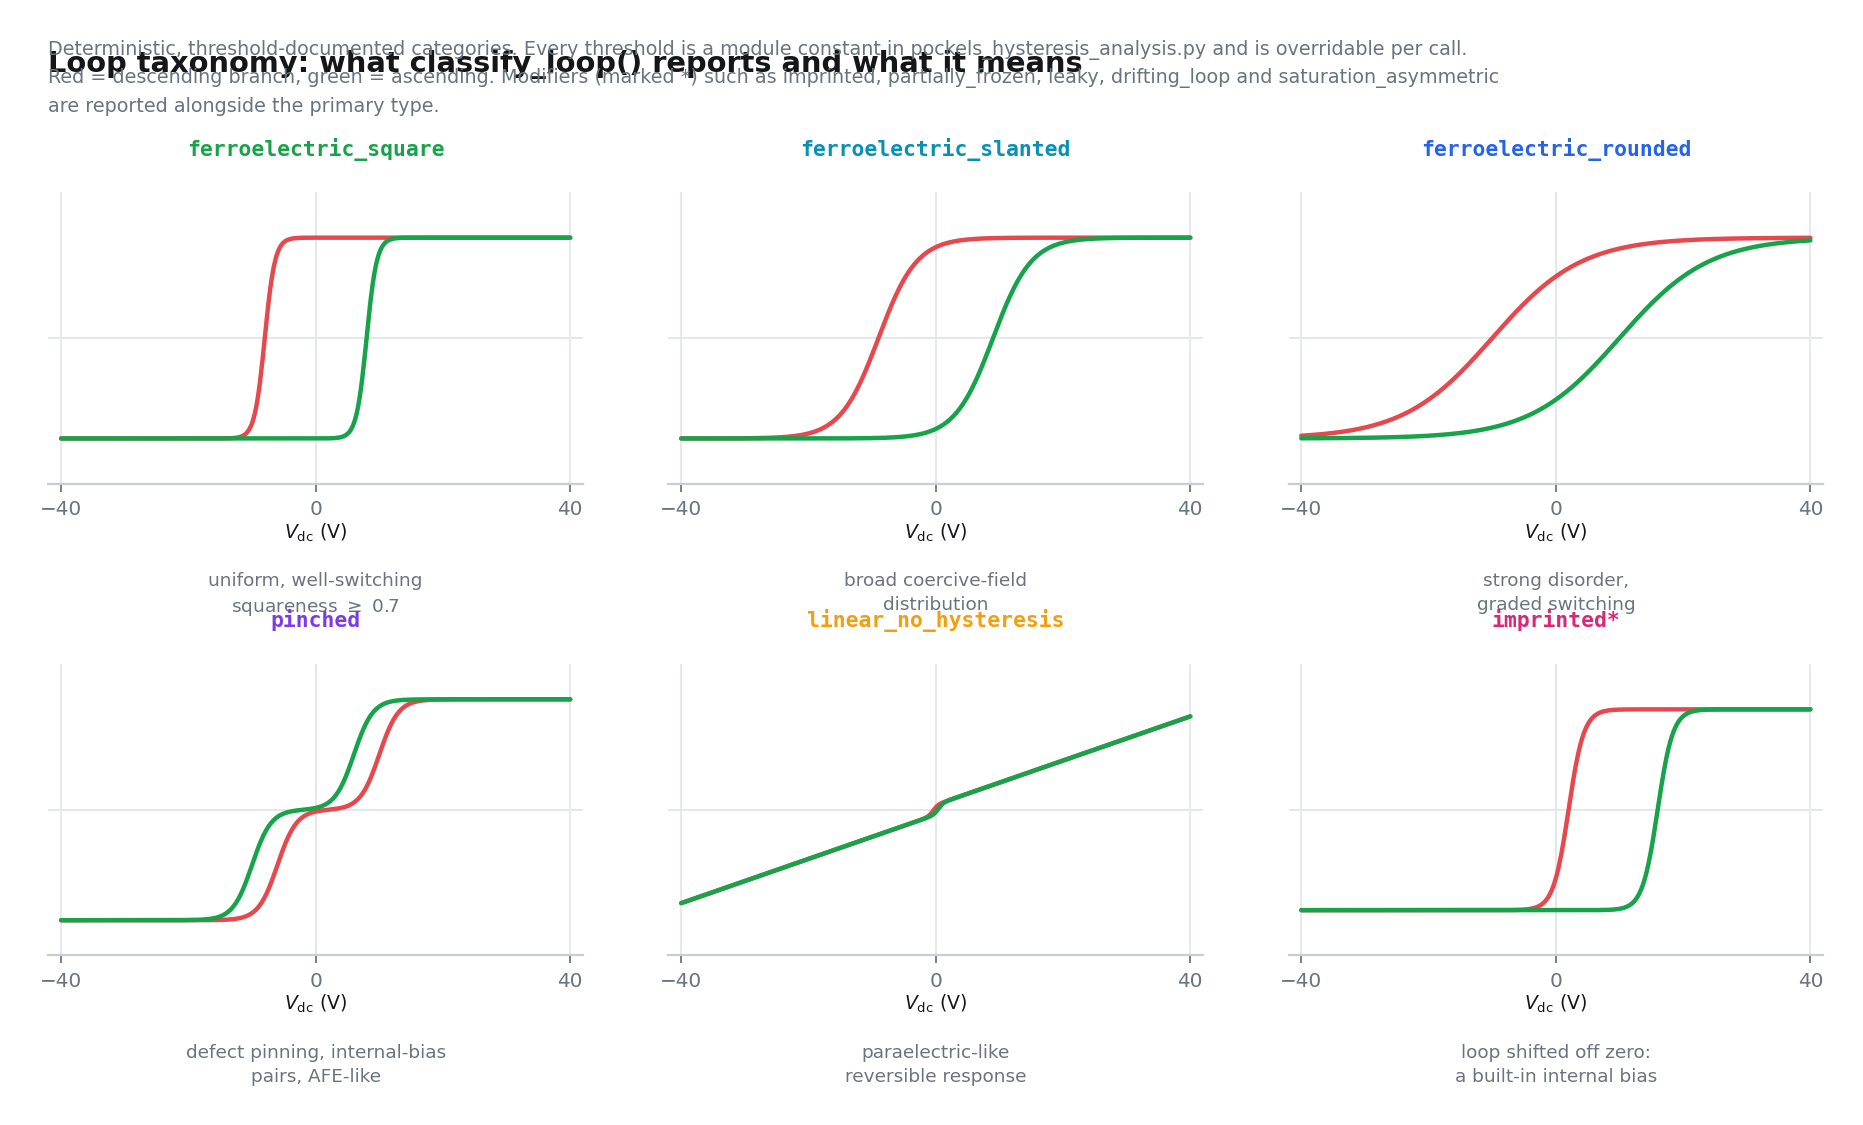
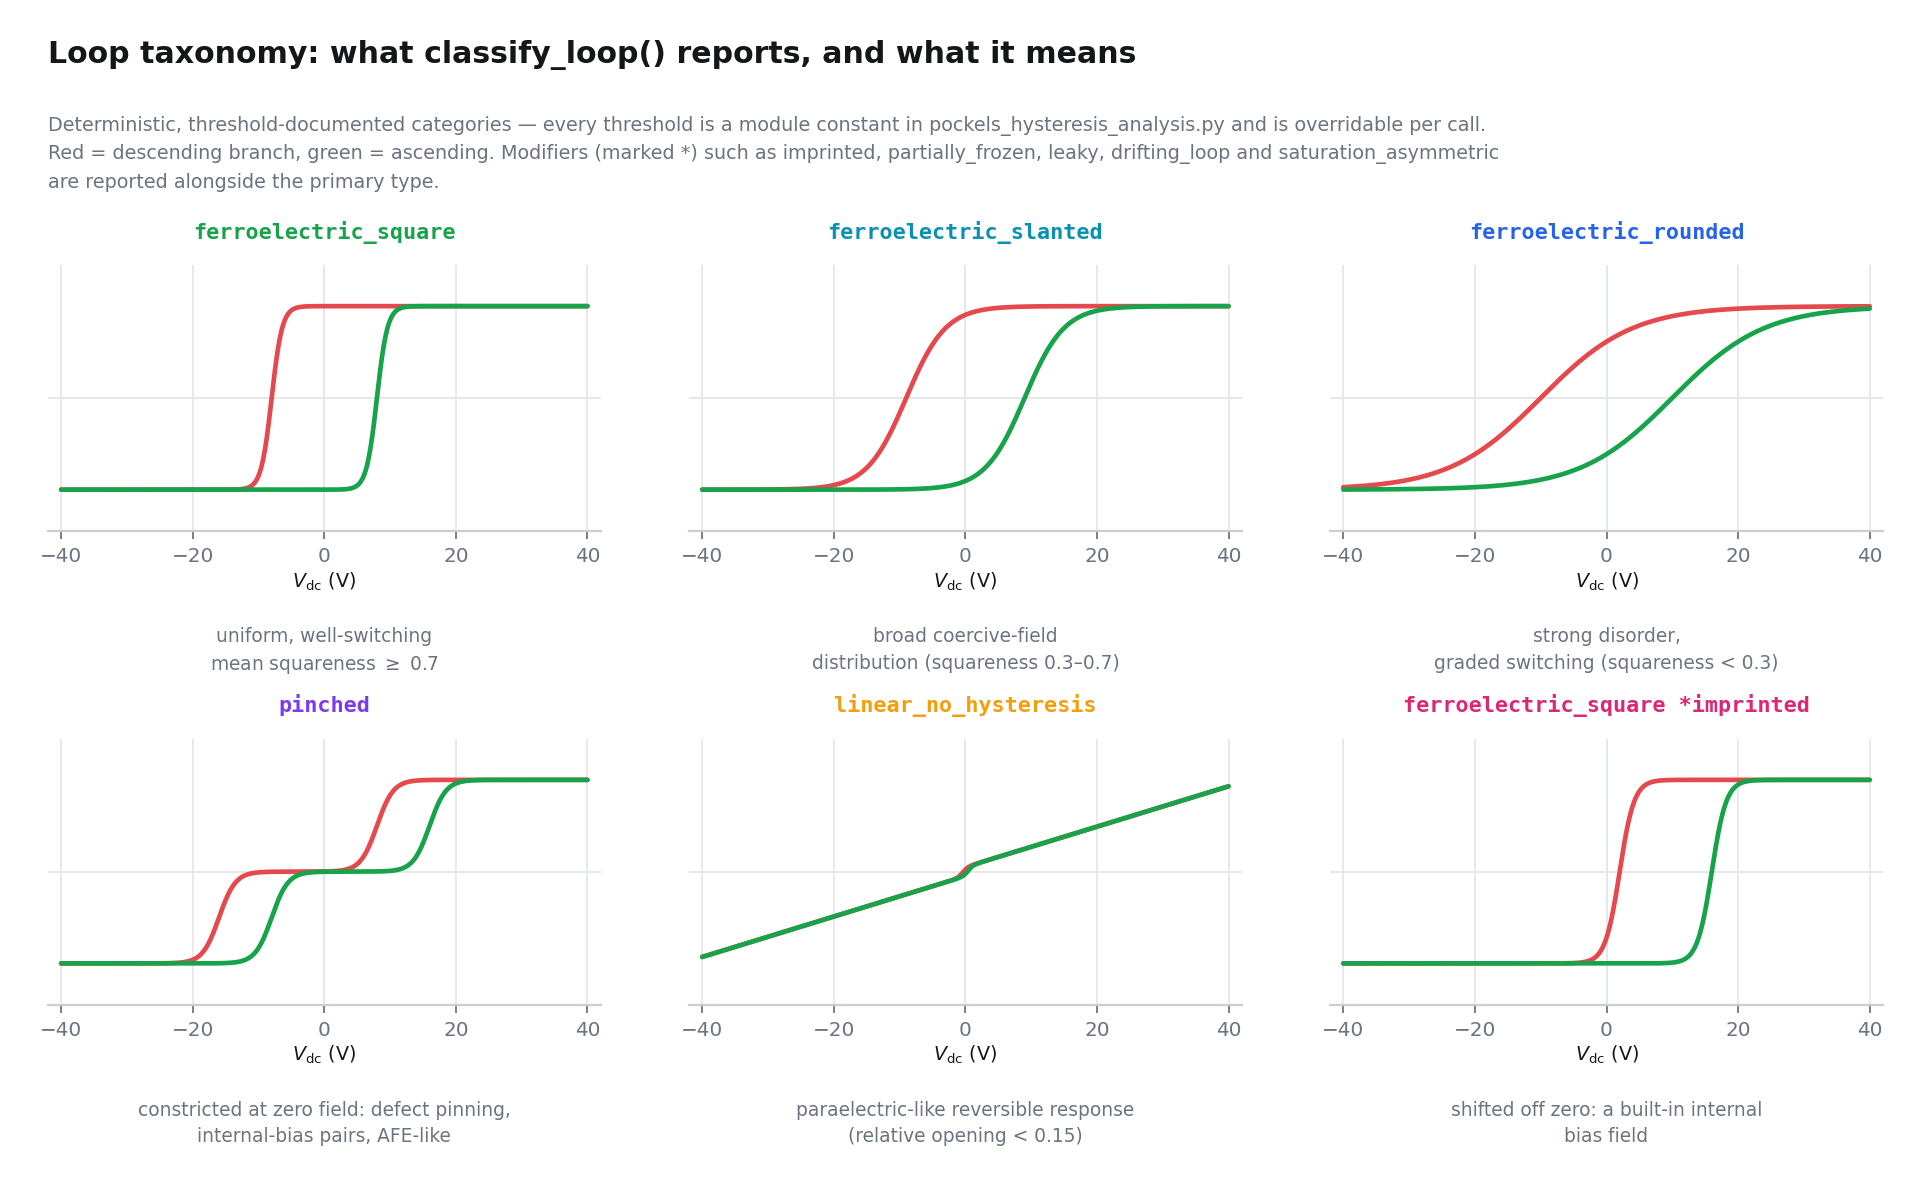
Refine generated figures and complete the documentation set
- switching-matrix circuit: correct the shift-register bit budget. The
  firmware uses 112 bits as 100 channel relays plus 10 group enables (bits
  100-109), with 110-111 spare - not '100 used'.
- loop taxonomy: the pinched case is now built from two sub-populations with
  opposite internal bias, so it is genuinely constricted at zero field
  instead of showing two separate steps.
- hysteresis figure: use the real 45-point centre-dense trajectory and draw
  the underlying response behind the acquired points.
- pixel grid, angular harmonics, hero: fix label and title collisions.
- docs/index.md, docs/reference/cli.md (generated from the argument parsers),
  and a uniform navigation bar on all 24 content pages.

All internal links and anchors resolve; all 22 test files pass.

diff --git a/tools/fig_measurement.py b/tools/fig_measurement.py
@@ -322,56 +322,65 @@ def figure_hysteresis_butterfly():
 
 
 def figure_loop_taxonomy():
-    v = np.linspace(-40, 40, 400)
+    v = np.linspace(-40, 40, 600)
 
-    def loop(vc_p, vc_m, w, sat=1.0, lin=0.0, frozen=0.0, pinch=False):
-        down = sat * np.tanh((v - vc_m) / w) + lin * v + frozen
-        up = sat * np.tanh((v - vc_p) / w) + lin * v + frozen
-        if pinch:
-            down = 0.55 * (np.tanh((v - vc_m) / w) + np.tanh((v - vc_m - 16) / w)) + lin * v
-            up = 0.55 * (np.tanh((v - vc_p) / w) + np.tanh((v - vc_p + 16) / w)) + lin * v
+    def loop(vc_p, vc_m, w, sat=1.0, lin=0.0, frozen=0.0):
+        """A plain hysteresis pair: each branch is a shifted tanh."""
+        return (sat * np.tanh((v - vc_m) / w) + lin * v + frozen,
+                sat * np.tanh((v - vc_p) / w) + lin * v + frozen)
+
+    def pinched(bias=12.0, half=4.0, w=2.5):
+        """Two sub-populations with opposite internal bias.
+
+        The loop is closed at zero field and open on either side, which is the
+        signature of defect pinning or internal-bias (defect-dipole) pairs.
+        """
+        down = 0.5 * (np.tanh((v - (bias - half)) / w)
+                      + np.tanh((v + (bias + half)) / w))
+        up = 0.5 * (np.tanh((v - (bias + half)) / w)
+                    + np.tanh((v + (bias - half)) / w))
         return down, up
 
     cases = [
         ("ferroelectric_square", loop(8, -8, 1.6),
-         "uniform, well-switching\nsquareness $\\geq$ 0.7", GREEN),
+         "uniform, well-switching\nmean squareness $\\geq$ 0.7", GREEN),
         ("ferroelectric_slanted", loop(9, -9, 6.0),
-         "broad coercive-field\ndistribution", CYAN),
+         "broad coercive-field\ndistribution (squareness 0.3\u20130.7)", CYAN),
         ("ferroelectric_rounded", loop(10, -10, 14.0),
-         "strong disorder,\ngraded switching", BLUE),
-        ("pinched", loop(6, -6, 3.0, pinch=True),
-         "defect pinning, internal-bias\npairs, AFE-like", VIOLET),
+         "strong disorder,\ngraded switching (squareness < 0.3)", BLUE),
+        ("pinched", pinched(),
+         "constricted at zero field: defect pinning,\ninternal-bias pairs, AFE-like", VIOLET),
         ("linear_no_hysteresis", loop(0.4, -0.4, 0.8, sat=0.05, lin=0.022),
-         "paraelectric-like\nreversible response", AMBER),
-        ("imprinted*", loop(16, 2, 2.4),
-         "loop shifted off zero:\na built-in internal bias", PINK),
+         "paraelectric-like reversible response\n(relative opening < 0.15)", AMBER),
+        ("ferroelectric_square *imprinted", loop(16, 2, 2.2),
+         "shifted off zero: a built-in internal\nbias field", PINK),
     ]
 
-    fig, axes = plt.subplots(2, 3, figsize=(11.8, 6.4))
+    fig, axes = plt.subplots(2, 3, figsize=(12.2, 6.8))
     for ax, (name, (down, up), note, col) in zip(axes.ravel(), cases):
         ax.axhline(0, color=GRID, lw=0.9); ax.axvline(0, color=GRID, lw=0.9)
-        ax.plot(v, down, color=LASER, lw=2.0)
-        ax.plot(v, up, color=GREEN, lw=2.0)
+        ax.plot(v, down, color=LASER, lw=2.1)
+        ax.plot(v, up, color=GREEN, lw=2.1)
         ax.set_xlim(-42, 42); ax.set_ylim(-1.45, 1.45)
-        ax.set_xticks([-40, 0, 40]); ax.set_yticks([])
+        ax.set_xticks([-40, -20, 0, 20, 40]); ax.set_yticks([])
         for spine in ("top", "right", "left"):
             ax.spines[spine].set_visible(False)
-        ax.text(0.5, 1.13, name, transform=ax.transAxes, ha="center",
-                fontsize=9.6, color=col, fontweight="bold", family="monospace")
-        ax.text(0.5, -0.30, note, transform=ax.transAxes, ha="center", va="top",
-                fontsize=8.3, color=MUTED, linespacing=1.45)
-        ax.set_xlabel("$V_\\mathrm{dc}$ (V)", fontsize=8.5, labelpad=1)
-    fig.suptitle("Loop taxonomy: what classify_loop() reports and what it means",
-                 x=0.045, ha="left", fontsize=13, fontweight="bold", y=0.985)
-    fig.text(0.045, 0.925,
-             "Deterministic, threshold-documented categories. Every threshold is a module "
+        ax.text(0.5, 1.10, name, transform=ax.transAxes, ha="center",
+                fontsize=9.8, color=col, fontweight="bold", family="monospace")
+        ax.text(0.5, -0.36, note, transform=ax.transAxes, ha="center", va="top",
+                fontsize=8.4, color=MUTED, linespacing=1.5)
+        ax.set_xlabel("$V_\\mathrm{dc}$ (V)", fontsize=8.6, labelpad=2)
+    fig.suptitle("Loop taxonomy: what classify_loop() reports, and what it means",
+                 x=0.045, ha="left", fontsize=13.5, fontweight="bold", y=0.982)
+    fig.text(0.045, 0.912,
+             "Deterministic, threshold-documented categories \u2014 every threshold is a module "
              "constant in pockels_hysteresis_analysis.py and is overridable per call.\n"
-             "Red = descending branch, green = ascending. Modifiers (marked *) such as "
-             "imprinted, partially_frozen, leaky, drifting_loop and saturation_asymmetric\n"
-             "are reported alongside the primary type.",
-             ha="left", fontsize=8.6, color=MUTED, linespacing=1.55)
-    fig.subplots_adjust(left=0.045, right=0.985, top=0.845, bottom=0.10,
-                        hspace=0.62, wspace=0.16)
+             "Red = descending branch, green = ascending. Modifiers (marked *) such as imprinted, "
+             "partially_frozen, leaky, drifting_loop and saturation_asymmetric\nare reported "
+             "alongside the primary type.",
+             ha="left", va="top", fontsize=8.6, color=MUTED, linespacing=1.55)
+    fig.subplots_adjust(left=0.045, right=0.985, top=0.775, bottom=0.095,
+                        hspace=0.78, wspace=0.16)
     fig.savefig(OUT / "loop_taxonomy.png")
     plt.close(fig)
 

diff --git a/tools/fig_system.py b/tools/fig_system.py
@@ -45,13 +45,13 @@ def figure_pixel_grid():
                 color=INK if selected else MUTED, fontweight="bold")
         ax.text(x, y - 0.26, f"{row},{col}", ha="center", va="center",
                 fontsize=6.2, color=MUTED, family="monospace")
-    ax.set_xlim(-0.75, 9.75); ax.set_ylim(-0.75, 9.75)
+    ax.set_xlim(-0.85, 9.85); ax.set_ylim(-0.75, 10.05)
     ax.set_aspect("equal"); ax.set_xticks([]); ax.set_yticks([]); ax.grid(False)
     for spine in ax.spines.values():
         spine.set_visible(False)
-    ax.annotate("", xy=(9.6, 9.75), xytext=(-0.55, 9.75),
+    ax.annotate("", xy=(9.6, 9.62), xytext=(-0.55, 9.62),
                 arrowprops=dict(arrowstyle="-|>", color=SLATE, lw=1.2))
-    ax.text(4.5, 10.05, "col 0 \u2192 9   (stage $x$)", ha="center",
+    ax.text(9.6, 9.78, "col 0 \u2192 9   (stage $x$)", ha="right",
             fontsize=8.6, color=SLATE)
     ax.annotate("", xy=(-0.75, -0.55), xytext=(-0.75, 9.6),
                 arrowprops=dict(arrowstyle="-|>", color=SLATE, lw=1.2))
@@ -85,9 +85,11 @@ def figure_pixel_grid():
     cb = fig.colorbar(im, ax=ax2, fraction=0.046, pad=0.03)
     cb.set_label("electrical switch channel", fontsize=9)
     cb.outline.set_visible(False)
-    title(ax2, "Display frame and electrode routing",
-          "the GUI draws display_col = 10 \u2212 col so the map matches the camera view;\n"
-          "E$n$ is the switch-matrix channel that energises that pixel")
+    ax2.set_title("Display frame and electrode routing", loc="left", pad=30)
+    ax2.text(0.0, 1.075,
+             "the GUI draws display_col = 10 \u2212 col so the map matches the camera view;\n"
+             "E$n$ is the switch-matrix channel that energises that pixel",
+             transform=ax2.transAxes, fontsize=8.5, color=MUTED, linespacing=1.45)
     fig.tight_layout(pad=1.8)
     fig.savefig(OUT / "pixel_grid.png")
     plt.close(fig)

diff --git a/README.md b/README.md
@@ -11,7 +11,7 @@
 [![Tests](https://img.shields.io/github/actions/workflow/status/adambickerdike/PockelsMap/tests.yml?branch=main&style=flat-square&label=tests)](../../actions/workflows/tests.yml)
 [![Stars](https://img.shields.io/github/stars/adambickerdike/PockelsMap?style=flat-square&color=f59e0b)](../../stargazers)
 [![Last commit](https://img.shields.io/github/last-commit/adambickerdike/PockelsMap?style=flat-square&color=7c3aed)](../../commits/main)
-[![Docs](https://img.shields.io/badge/docs-17_pages-16a34a.svg?style=flat-square)](docs/)
+[![Docs](https://img.shields.io/badge/docs-25_pages-16a34a.svg?style=flat-square)](docs/)
 
 **[Documentation](docs/) · [Quick start](docs/guide/quickstart.md) · [Physics](docs/physics/) · [The instrument](docs/experiment/) · [The code](docs/software/)**
 
@@ -395,7 +395,7 @@ PockelsMap/
 │   └── _bootstrap.py                  pins imports and the working directory
 ├── tests/                22 test files, no hardware, all passing
 ├── firmware/             the Arduino switching-matrix sketch
-├── docs/                 the full manual (17 pages)
+├── docs/                 the full manual (25 pages)
 ├── assets/               schematic, GDS layout, computed figures, brand
 └── tools/                figure generation, Windows USB stability setup
 ```
